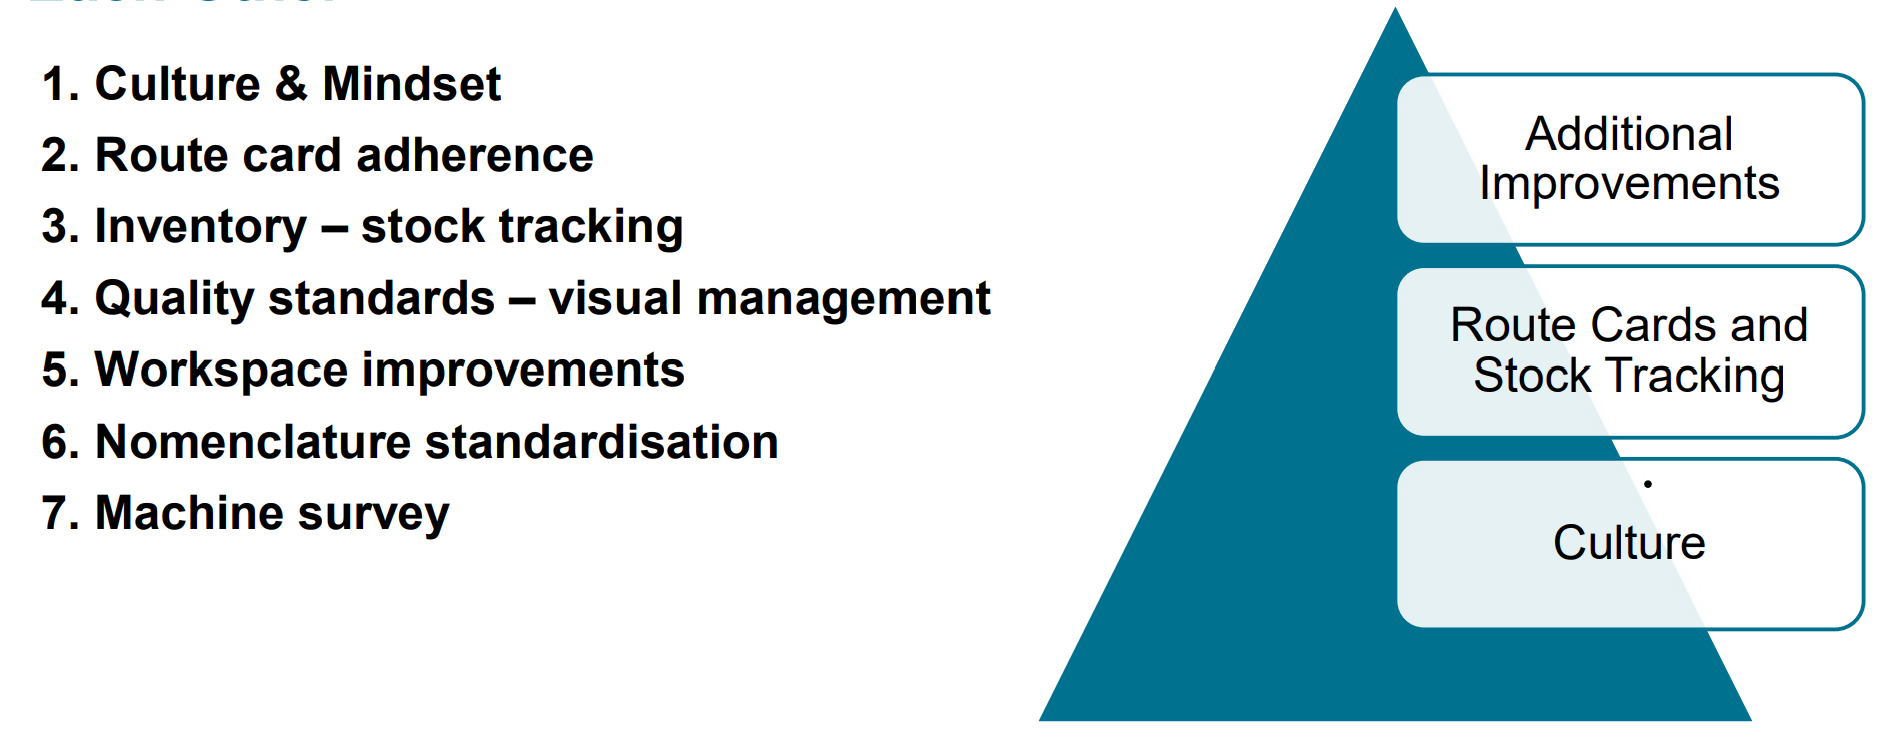
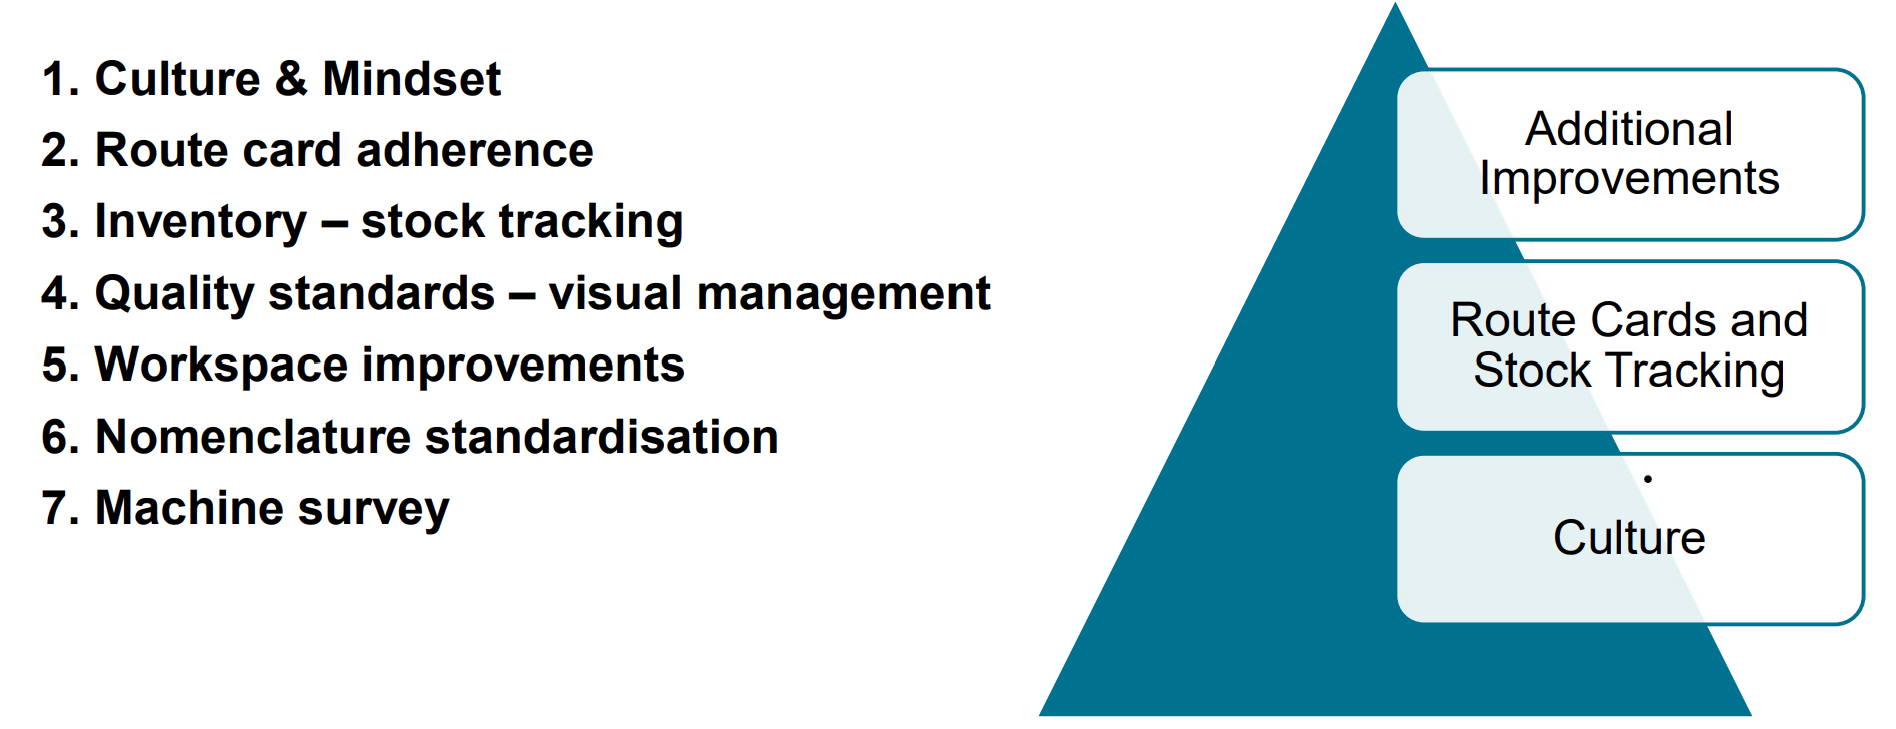
image width

diff --git a/projects.md b/projects.md
@@ -80,6 +80,6 @@ permalink: /projects/
 
 <style>
 .project-desc img {
-  width: 675px;
+  width: 600px;
 }
 </style>
